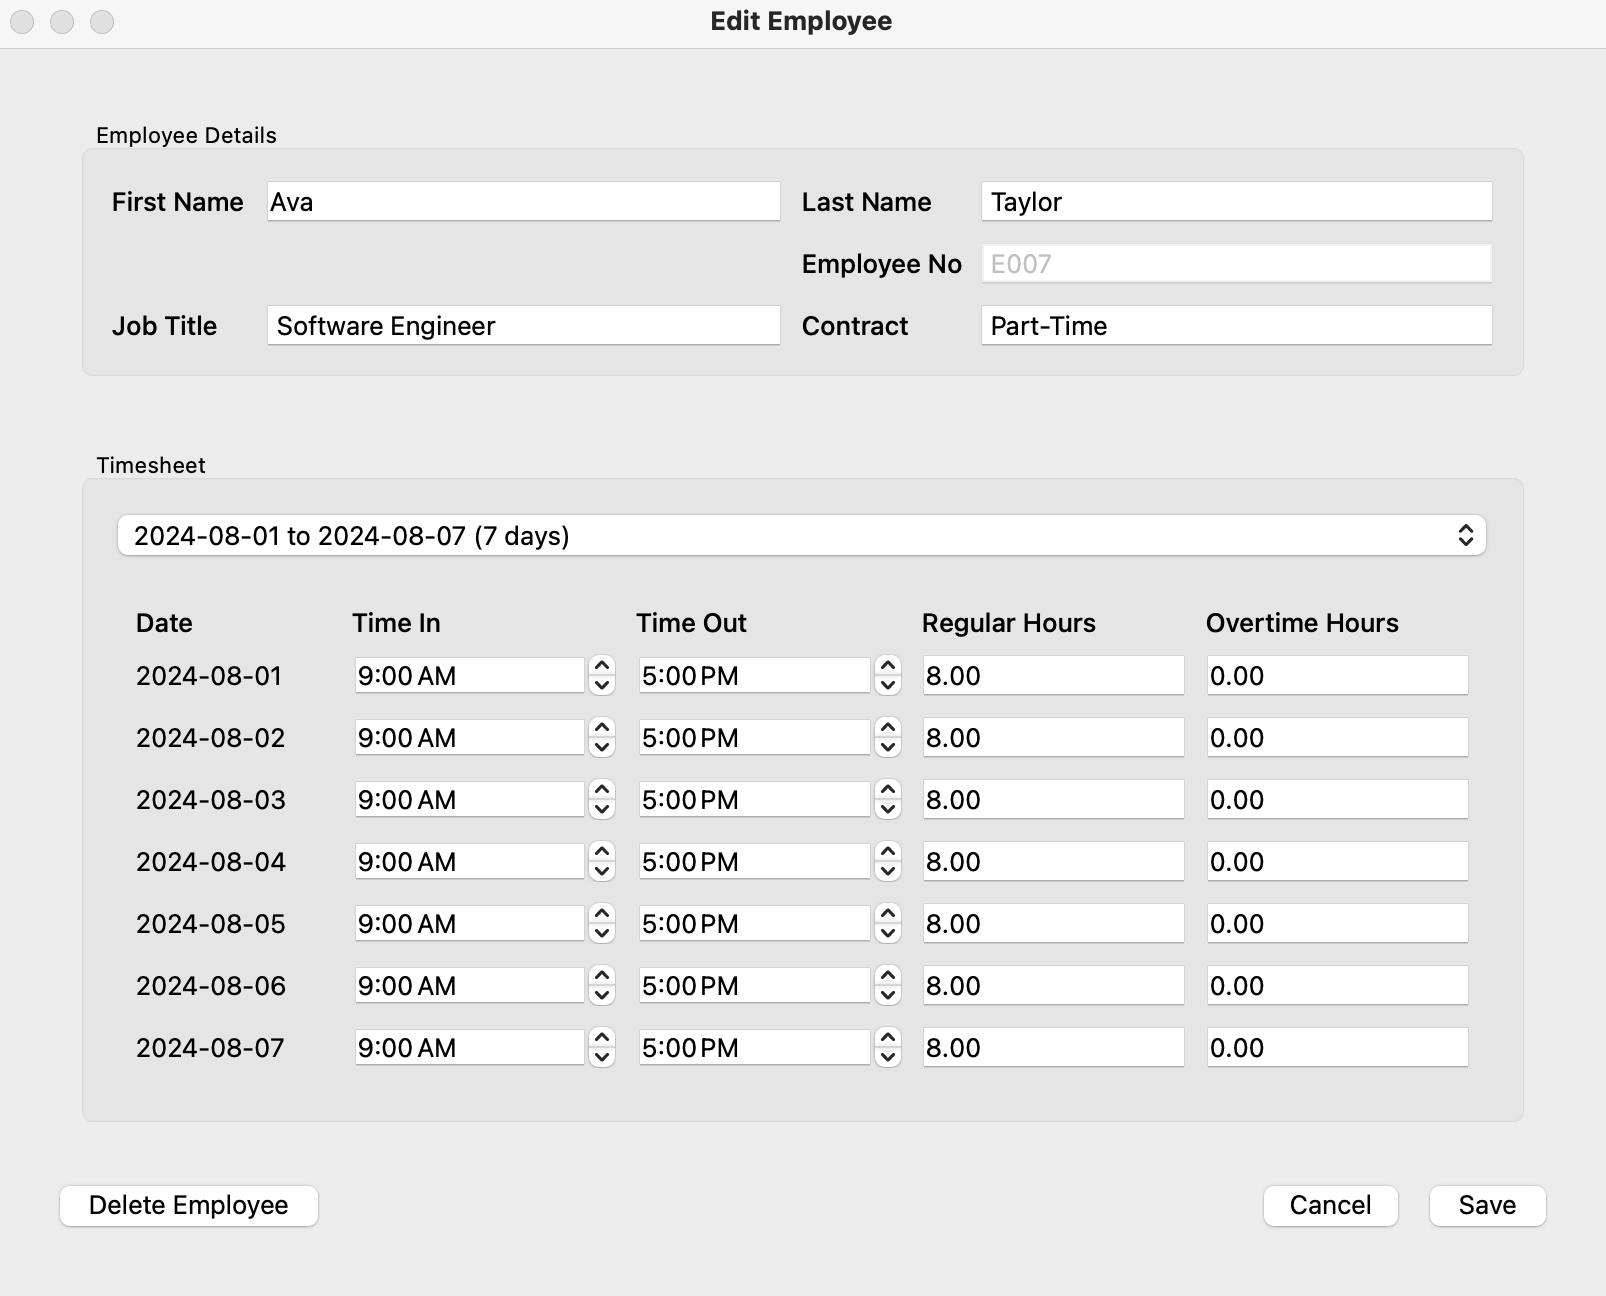
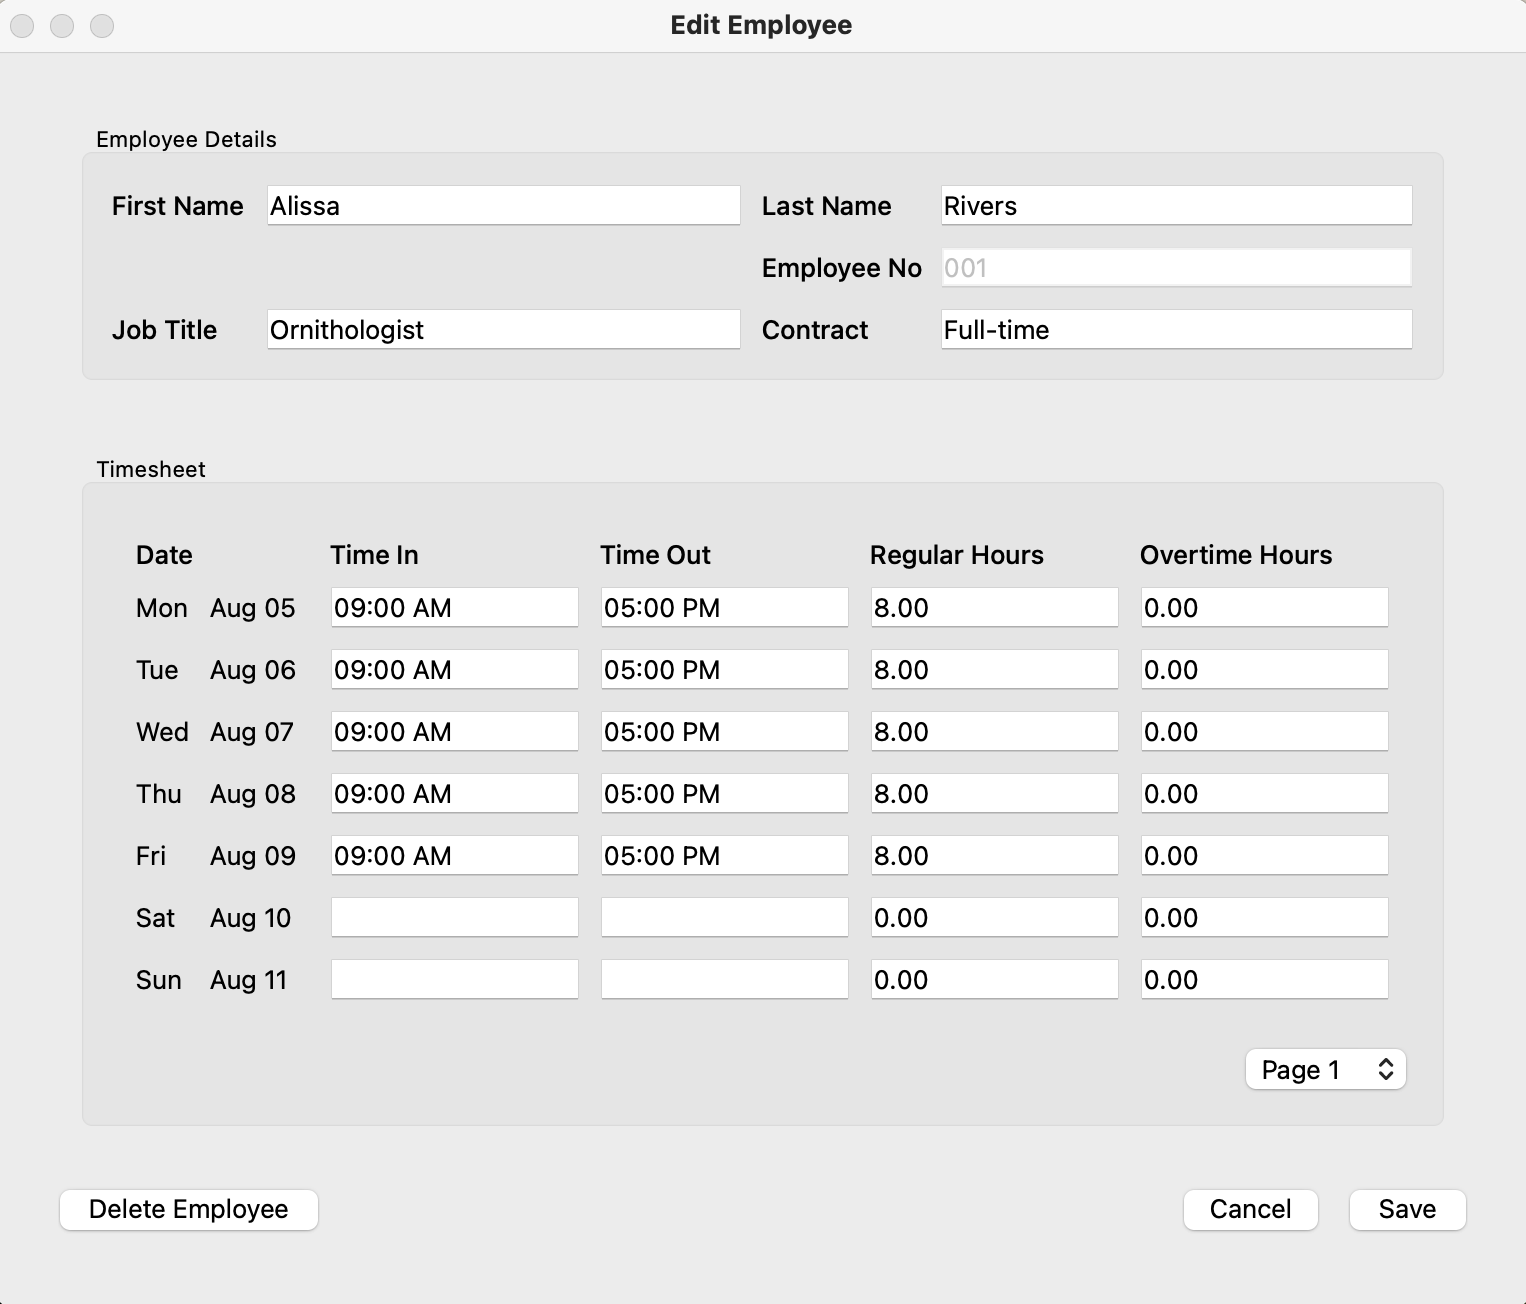
update images

diff --git a/README.md b/README.md
@@ -1,6 +1,6 @@
 # Timesheet Generator
 
-A tool for logging employee hours and generating PDF timesheet reports. (Features are developed as requested by client.)
+A tool for logging employee hours and generating PDF timesheet reports.
 
 
 ## Supported Features
@@ -22,7 +22,7 @@ A tool for logging employee hours and generating PDF timesheet reports. (Feature
 
 ## Screens
 
-Employee details shown here are AI-generated.
+Employee details are AI generated for the purpose of demonstration.
 
 
 ### `Settings` Tab
